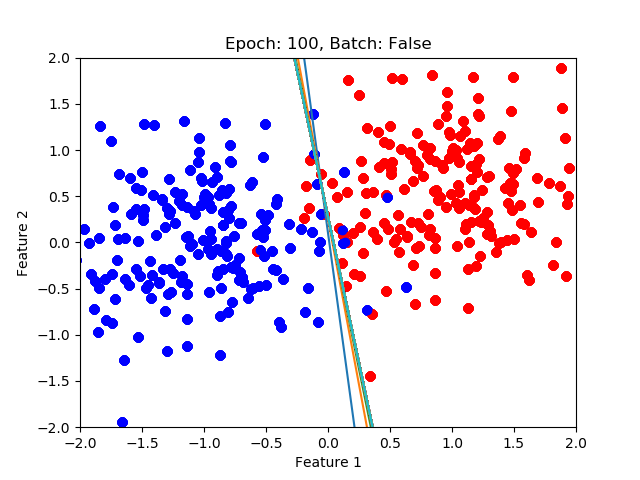
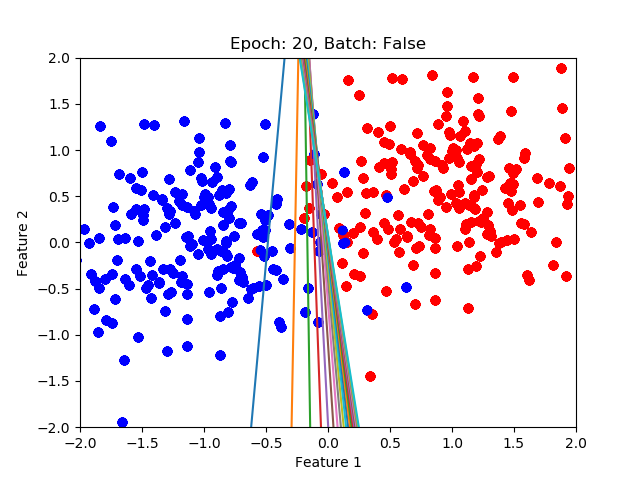
Tweaks

Changed region(s): [[0.3438, 0.0625, 0.6875, 0.9062], [0.375, 0.6875, 0.4062, 0.875]]

diff --git a/single_layer.py b/single_layer.py
@@ -81,7 +81,7 @@ class perceptron():
                         self.W, self.classData[:, i]) - self.T[:, i])*np.transpose(self.classData[:, i])
                 self.W += deltaW
 
-    def train(self, epochs=100, verbose=True):
+    def train(self, epochs=20, verbose=True):
         lossObject = dataPlot()
         for i in range(epochs):
             self.deltaRule()
@@ -155,7 +155,7 @@ def main():
     sigmaA = 0.6
     sigmaB = 0.6
     #######
-    single_layer = perceptron(1, batch=False, learningRate=0.01)
+    single_layer = perceptron(1, batch=False, learningRate=0.001)
     single_layer.generateClassData(nA, nB, mA, mB, sigmaA, sigmaB)
     single_layer.initWeights()
     # single_layer.plotData()
